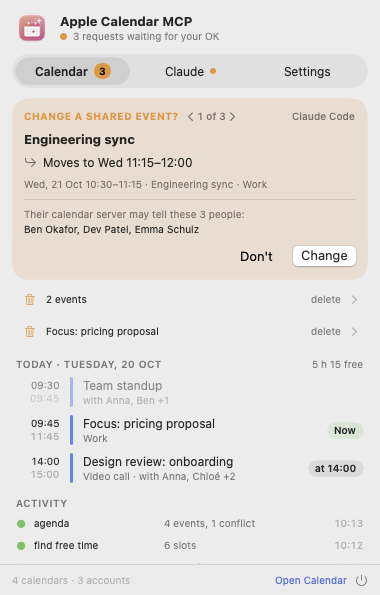
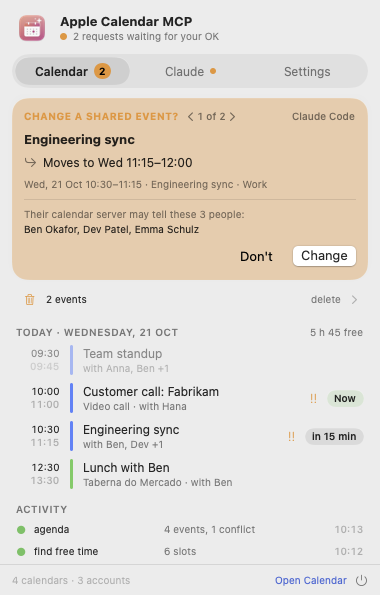
App: readable glass tabs and weekdays, a warmer approval block
- The selected tab and working days put the glass on the label itself:
  a glass shape in the background was drawn over the text in a glass
  container, so the selected tab and the days read blank.
- No focus ring on those buttons (it drew a second, blue-ringed pill).
- The approval block keeps its orange when the window is not active (a glass
  tint fades to grey there): a light fill on the glass, and a stronger tint.
- README screenshots regenerated.

diff --git a/Sources/CalendarMCPBar/Views.swift b/Sources/CalendarMCPBar/Views.swift
@@ -197,18 +197,14 @@ struct TabBar: View {
                             }
                         }
                         .font(.callout.weight(selected == tab ? .semibold : .regular))
+                        .foregroundStyle(selected == tab ? .primary : .secondary)
                         .frame(maxWidth: .infinity, minHeight: 28)
                         .contentShape(Capsule())
-                        .background {
-                            if selected == tab {
-                                Capsule().fill(.clear)
-                                    .glassBackground(Capsule(), interactive: true)
-                                    .glassID("selection", in: glass)
-                                    .matchedGeometryEffect(id: "selection", in: glass)
-                            }
-                        }
+                        // The glass carries the label: text drawn on it, never under it.
+                        .modifier(SelectedGlass(isOn: selected == tab, id: "selection", namespace: glass))
                     }
                     .buttonStyle(PressableButtonStyle())
+                    .focusEffectDisabled()
                     .accessibilityAddTraits(selected == tab ? [.isButton, .isSelected] : .isButton)
                 }
             }
@@ -524,7 +520,10 @@ struct ApprovalBlock: View {
             }
         }
         .padding(12)
-        .glassBackground(RoundedRectangle(cornerRadius: 16, style: .continuous), tint: .orange)
+        // Orange on the glass itself: a glass tint fades to grey when the window is not active, and this block must
+        // stand out either way.
+        .background(RoundedRectangle(cornerRadius: 16, style: .continuous).fill(Color.orange.opacity(0.12)))
+        .glassBackground(RoundedRectangle(cornerRadius: 16, style: .continuous), tint: .orange, strength: 0.5)
         .onChange(of: request.id) { showAll = false }
     }
 }
@@ -821,21 +820,36 @@ struct WeekdayPicker: View {
                         if on { selection.removeAll { $0 == day } } else { selection = (selection + [day]).sorted() }
                     } label: {
                         Text(Calendar.current.veryShortWeekdaySymbols[day - 1])
-                            .font(.caption.weight(on ? .semibold : .regular))
+                            .font(.caption.weight(on ? .bold : .regular))
+                            .foregroundStyle(on ? .primary : .secondary)
                             .frame(width: 30, height: 24)
                             .contentShape(Capsule())
-                            .background {
-                                if on { Capsule().fill(.clear).glassBackground(Capsule(), tint: .accentColor, interactive: true).glassID(day, in: glass) }
-                            }
-                            .foregroundStyle(on ? .primary : .secondary)
+                            .modifier(SelectedGlass(isOn: on, id: day, namespace: glass, tint: .accentColor))
                     }
                     .buttonStyle(PressableButtonStyle())
+                    .focusEffectDisabled()
                     .accessibilityLabel(Calendar.current.weekdaySymbols[day - 1])
                     .accessibilityAddTraits(on ? [.isButton, .isSelected] : .isButton)
                 }
             }
         }
         .animatesChanges(of: selection)
+    }
+}
+
+/// Glass on the view itself while `isOn` (a selected tab or day), tied to `id` so it morphs between them.
+struct SelectedGlass<ID: Hashable & Sendable>: ViewModifier {
+    let isOn: Bool
+    let id: ID
+    let namespace: Namespace.ID
+    var tint: Color? = nil
+
+    func body(content: Content) -> some View {
+        if isOn {
+            content.glassBackground(Capsule(), tint: tint, interactive: true).glassID(id, in: namespace)
+        } else {
+            content
+        }
     }
 }
 

diff --git a/Sources/CalendarMCPBar/Glass.swift b/Sources/CalendarMCPBar/Glass.swift
@@ -7,8 +7,8 @@ import SwiftUI
 extension View {
     /// A glass shape behind this view (tinted when `tint` is given).
     @ViewBuilder
-    func glassBackground(_ shape: some Shape = Capsule(), tint: Color? = nil, interactive: Bool = false) -> some View {
-        modifier(GlassBackground(shape: AnyShape(shape), tint: tint, interactive: interactive))
+    func glassBackground(_ shape: some Shape = Capsule(), tint: Color? = nil, strength: Double = 0.3, interactive: Bool = false) -> some View {
+        modifier(GlassBackground(shape: AnyShape(shape), tint: tint, strength: strength, interactive: interactive))
     }
 
     /// Glass button style (prominent = tinted glass for the primary action).
@@ -49,6 +49,8 @@ extension EnvironmentValues {
 private struct GlassBackground: ViewModifier {
     let shape: AnyShape
     let tint: Color?
+    /// How strongly the tint colours the glass (0…1).
+    let strength: Double
     let interactive: Bool
     @Environment(\.accessibilityReduceTransparency) private var reduceTransparency
     @Environment(\.colorSchemeContrast) private var contrast
@@ -57,7 +59,7 @@ private struct GlassBackground: ViewModifier {
     func body(content: Content) -> some View {
         if drawsGlassAsFill {
             content.background {
-                shape.fill(tint.map { $0.opacity(0.16) } ?? Color.primary.opacity(0.09))
+                shape.fill(tint.map { $0.opacity(strength * 0.55) } ?? Color.primary.opacity(0.09))
                     .overlay(shape.stroke(LinearGradient(colors: [.white.opacity(0.35), .white.opacity(0.05)], startPoint: .top, endPoint: .bottom), lineWidth: 0.75))
                     .shadow(color: .black.opacity(0.12), radius: 6, y: 2)
             }
@@ -70,7 +72,7 @@ private struct GlassBackground: ViewModifier {
         } else {
             #if compiler(>=6.2)
             if #available(macOS 26.0, *) {
-                let glass = tint.map { Glass.regular.tint($0.opacity(0.3)) } ?? .regular
+                let glass = tint.map { Glass.regular.tint($0.opacity(strength)) } ?? .regular
                 content.glassEffect(interactive ? glass.interactive() : glass, in: shape)
             } else {
                 content.background { frosted }
